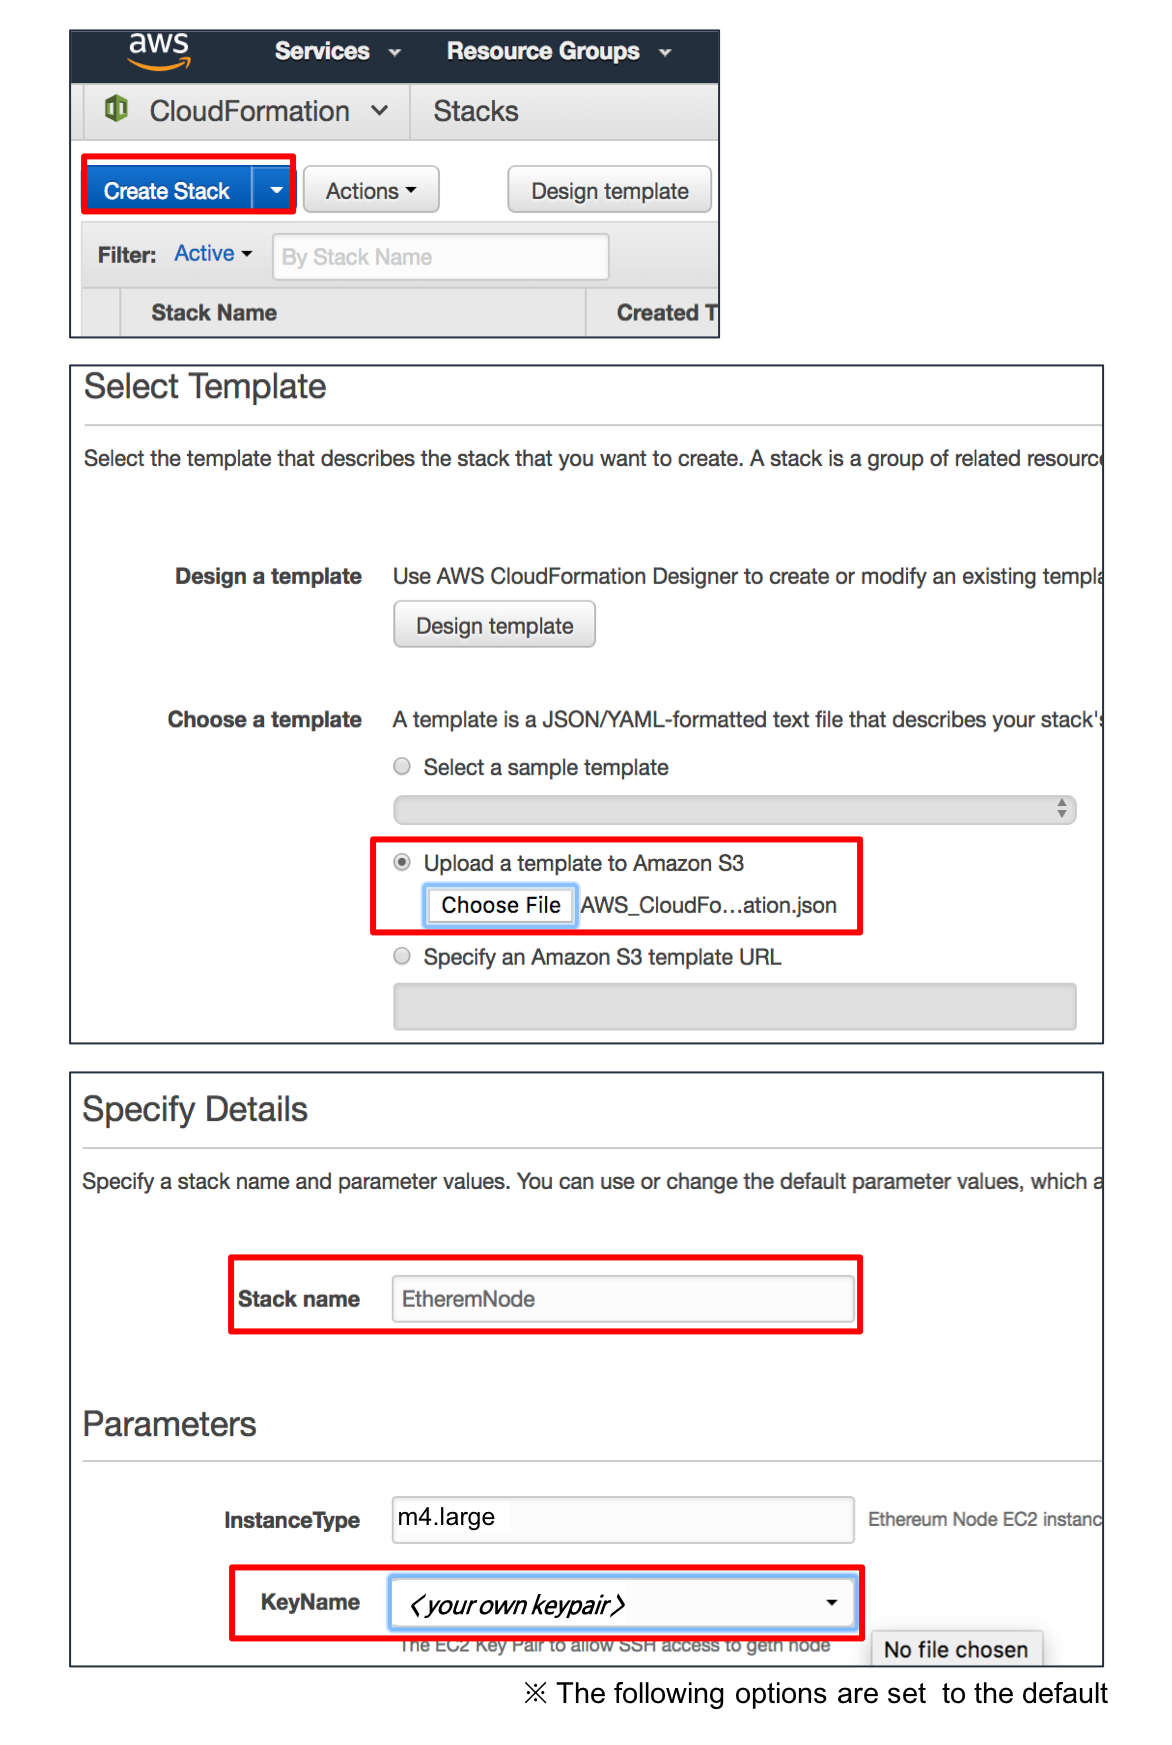
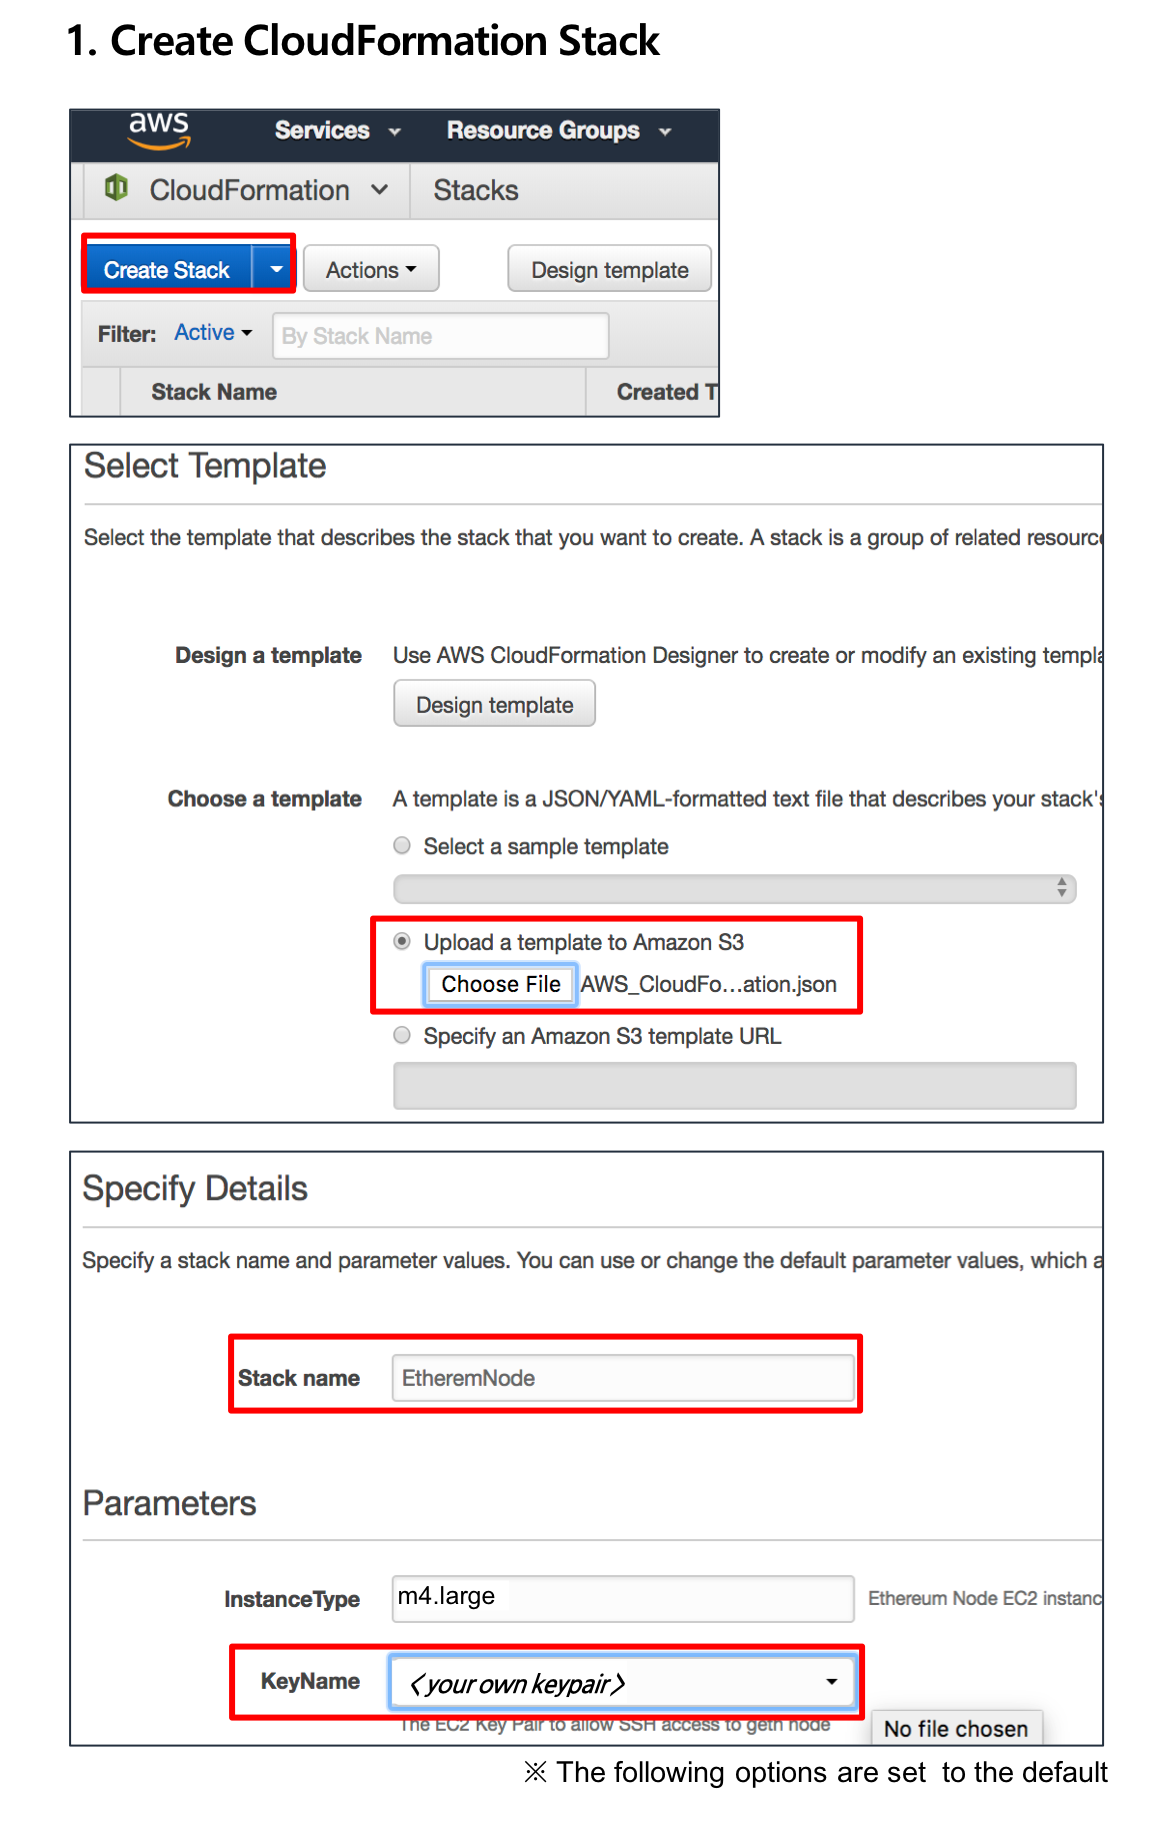
init

diff --git a/data/mission1_step2.html b/data/mission1_step2.html
@@ -60,54 +60,58 @@
         </div>
         <!-- //.col-lg-6 -->
     </div>
-    <!-- //.row -->
+    <center><img src="../assets/aws_images/mission1_step2-4.png" class="center"></center><br>
 
+    <!-- //.row -->
     <div class="row justify-content-center ">
         <div class="col-lg-12 col-xl-12 mb-5 text-center text-lg-left ml-5">
             <p class="font-alt font-w-600 text-large text-uppercase text-red">Cheat Sheet </p>
             <p class="text-medium">
-            <table>
-                <tr>
-                    <th>Steps</th>
-                    <th>Input </th>
-                </tr>
-                <tr>
-                    <td>1. Load ‘myFirst.sol’<br>
-                        2. Compile 'myFirst.sol'<br>
-                        3. Connect Web3 Provider
-                    </td>
-                    <td><br><br>･ web3 provider : http://<font color="gray">[Public_IP]</font>:8545</td>
-                </tr>
-                <tr>
-                    <td>4. Terminal #2 > Unlock Account<br>
-                        5. Deploy Contract<br>
-                        6. Terminal #2 > Mining<br><br>
-                    </td>
-                    <td>&nbsp;>&nbsp; personal.unlockAccount(eth.accounts[0], '1', 0);<br>
-                        <br>
-                        &nbsp;>&nbsp; miner.start(); <br>
-                        &nbsp;>&nbsp; miner.stop();</td>
-                </tr>
-                <tr>
-                    <td>7. Call Contract Function (GetVal, SetVal)<br>
-                        8. Terminal #2 > Mining<br><br></td>
-                    <td><br>&nbsp;>&nbsp; miner.start(); <br>
-                        &nbsp;>&nbsp; miner.stop();</td>
-                </tr>
-            </table>
-            &nbsp;<font color="#1e90ff">※ Remix(Web Browser IDE) is not supported Firefox</font><br>
-            &nbsp;<font color="#1e90ff">※ 왜 이걸 하는지? 왜 마이닝을 돌리는 지, 이 컨트랙트는 머를 하는 건지 </font><br>
 
+            <p class="text-medium">
+
+            <p><b>  1. Create Contract and Connect to Local Network</b>
+                <div>
+                ･ web3 provider : http://<font color="gray">[Public_IP]</font>:8545<br>
+
+                </div>
+            </p>
+            <p><b> 2. Deploy Contract &nbsp;&nbsp;&nbsp;<font class="text-small text-blue"> ⇦ Mining is required!</font> </b>
+                <div>
+                    &nbsp;>&nbsp; personal.unlockAccount(eth.accounts[0], '1', 0);<br>
+                    &nbsp;>&nbsp; miner.start(); <br>
+                    &nbsp;>&nbsp; miner.stop();
+                </div>
+            </p>
+                <p><b> 3. Run Contract - setVal &nbsp;&nbsp;&nbsp;<font class="text-small text-blue"> ⇦ Mining is required!</font></b>
+                <div>
+                    &nbsp;>&nbsp; miner.start(); <br>
+                    &nbsp;>&nbsp; miner.stop();
+                </div>
+            </p>
+            <p><b> 4. Run Contract - getVal</b></p>
+            &nbsp;<font color="#1e90ff">※ Remix(Web Browser IDE) doesn't support Firefox</font><br>
+            &nbsp;<font color="#1e90ff">※ To set data in blockchains such as 'Deploy Contract' and 'run setVal' requires mining. </font><br><br>
 
         </div>
+
     </div>
 
     <div class="col-lg-12 col-xl-12 text-center">
         <div class="fig-1 rounded">
-            <img src="../assets/aws_images/mission1_step2.png" width=80%  alt="" class="img-fluid " />
+            <img src="../assets/aws_images/mission1_step2-1.png" width=80%  alt="" class="img-fluid " />
         </div>
-    </div>
-
+    </div><br>
+    <div class="col-lg-12 col-xl-12 text-center">
+        <div class="fig-1 rounded">
+            <img src="../assets/aws_images/mission1_step2-2.png" width=80%  alt="" class="img-fluid " />
+        </div>
+    </div><br>
+    <div class="col-lg-12 col-xl-12 text-center">
+        <div class="fig-1 rounded">
+            <img src="../assets/aws_images/mission1_step2-3.png" width=80%  alt="" class="img-fluid " />
+        </div>
+    </div><br>
 </div>
 
 </body>

diff --git a/data/mission0_cloudFormation.html b/data/mission0_cloudFormation.html
@@ -39,23 +39,24 @@
         <!-- //.col-lg-6 -->
     </div>
     <!-- //.row -->
-
     <div class="row justify-content-center ">
         <div class="col-lg-12 col-xl-12 mb-5 text-center text-lg-left ml-5">
             <p class="font-alt font-w-600 text-large text-uppercase text-red">Cheat Sheet </p>
             <p class="text-medium">
-
-            <p> 1. Available Regions : Oregon / Singapore / Sydney </p>
-            <p> 2. Stack name : EthereumNode </p>
-            <p> 3. KeyName : (yours) </p>
+            <p><b>  1. Create CloudFormation Stack</b><br><br>
+                &nbsp;･ Available Regions : Oregon / Singapore / Sydney <br>
+                &nbsp;･ Stack name : EthereumNode <br>
+                &nbsp;･ KeyName : <font color="gray">[your keypair]</font>
             </p>
-
         </div>
     </div>
 
     <div class="col-lg-12 col-xl-12 text-center">
         <div class="fig-1 rounded">
-            <img src="../assets/aws_images/cloudformation_create.png" width=80%  alt="" class="img-fluid " />
+            <img src="../assets/aws_images/cloudformation_create.png" width=70%  alt="" class="img-fluid " />
+        </div><br>
+        <div class="fig-1 rounded">
+            <img src="../assets/aws_images/cloudformation_create-1.png" width=70%  alt="" class="img-fluid " />
         </div>
     </div>
 

diff --git a/index.html b/index.html
@@ -270,7 +270,7 @@
                         </li>
                         <li class="event" data-date="step 2">
                             <h1>step 2</h1>
-                            <h3>Deploy Smart Contract </h3>
+                            <h3>Create Smart Contract </h3>
                             <p>Remix website &nbsp;<a href="http://remix.ethereum.org" target="_blank3">open</a>
                             <font class="text-warning text-small">  (※ supported browser : Chrome, IE)</font></p>
                             <p>Contract Source &nbsp;<a href="data/myFirst.sol" download>download</a></p>

diff --git a/data/mission3_step4.html b/data/mission3_step4.html
@@ -57,6 +57,10 @@
                 </tr>
                 <tr>
                     <td> <br>► neptune browser : <a href="http://poc-bat-alb-161916887.us-east-1.elb.amazonaws.com:2081/graphexp.html" target="_blank4">open</a> &nbsp;(<a href="https://github.com/bricaud/graphexp" target="_blank4">graphexp</a>)
+                    </td>
+                </tr>
+                <tr>
+                    <td> <br>► blockchain analysis github  : <a href="https://github.com/goblinok/kyt-graphexp" target="_blank4">open</a>
 
                     </td>
                 </tr>

diff --git a/data/mission3_step5.html b/data/mission3_step5.html
@@ -56,7 +56,10 @@
                 </tr>
                 <tr>
                     <td> <br>► my wallet poc : <a href="http://poc-was-alb-85318504.us-east-1.elb.amazonaws.com/mywallet" target="_blank4">open</a>
-
+                    </td>
+                </tr>
+                <tr>
+                    <td> <br>► my wallet gitgub : <a href="https://github.com/goblinok/kyt-www" target="_blank4">open</a>
                     </td>
                 </tr>
             </table>

diff --git a/data/mission1_step3.html b/data/mission1_step3.html
@@ -55,7 +55,6 @@
             </p>
             <p><b> 2. Execute 'index.html' (Double Click!) and Click 'Set'</b> </p>
             <p><b> 3. Mining</b></p>
-            &nbsp;<font color="#1e90ff">※ Remix(Web Browser IDE) is not supported Firefox</font><br>
             &nbsp;<font color="#1e90ff">※ 왜 이걸 하는지? 왜 마이닝을 돌리는 지, 이 컨트랙트는 머를 하는 건지 </font><br>
         </div>
     </div>
